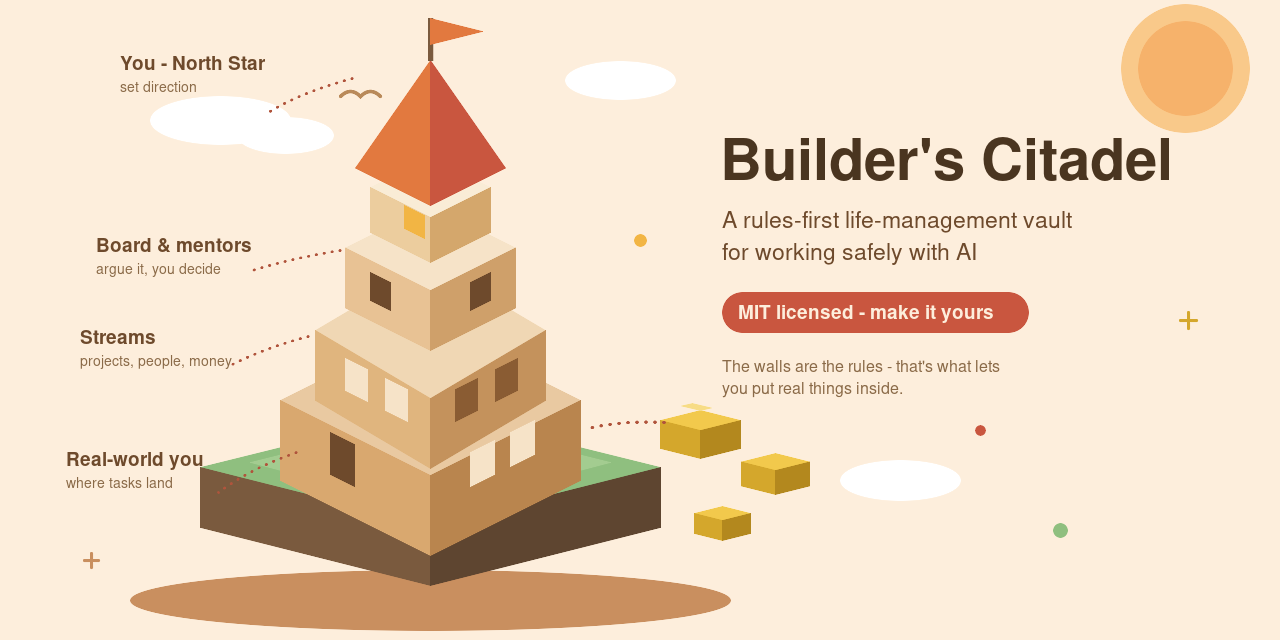
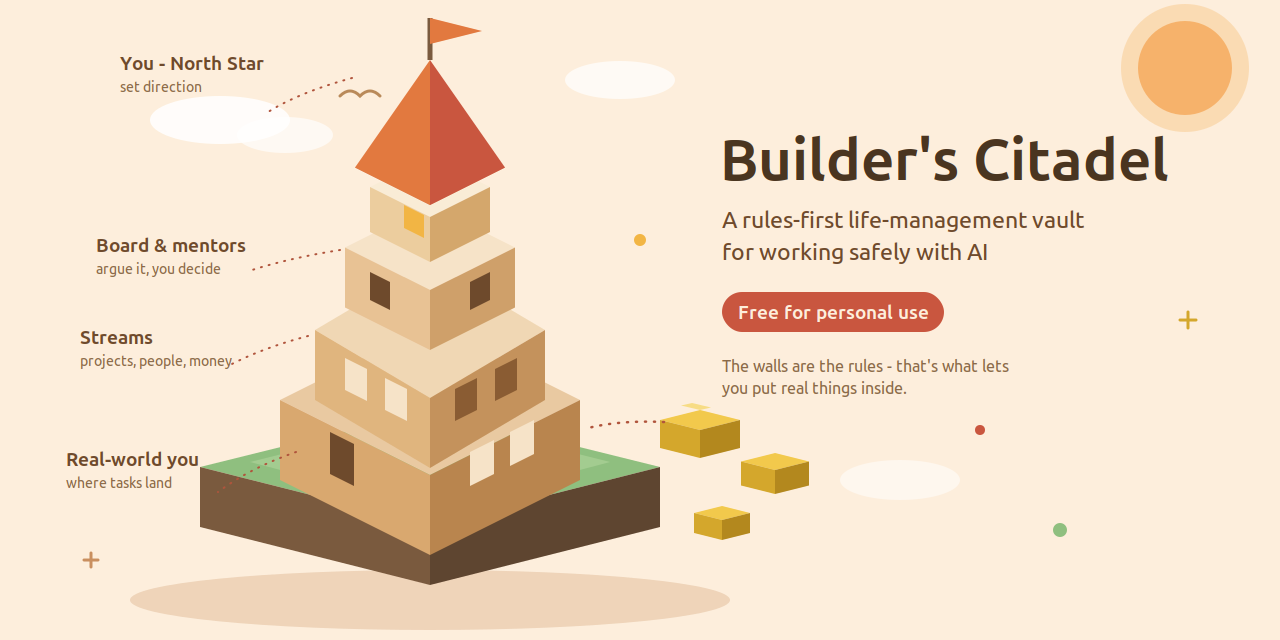
Relicense: MIT to PolyForm Noncommercial 1.0.0
Free for personal, hobby, charity, education and government use.
Commercial use now requires a separate licence.

- LICENSE: PolyForm Noncommercial 1.0.0 + Required Notice + commercial contact
- README: plain-English summary, commercial route, note on prior MIT versions
- GUIDE / SETUP: "open-source" reworded (PolyForm is source-available, not OSI)
- hero + social card: badge no longer says "MIT license"; SVG sources
  re-synced with the rendered PNGs, which had drifted apart

diff --git a/README.md b/README.md
@@ -4,7 +4,7 @@
 
 A life-management vault you hand to an AI. Rules first, folders second.
 
-Free and MIT licensed. It is the open drawer of [The Vault](https://humanlatency.online/vault.html) — the rest of the drawers are at [humanlatency.online](https://humanlatency.online).
+Free for personal and non-commercial use. It is the open drawer of [The Vault](https://humanlatency.online/vault.html) — the rest of the drawers are at [humanlatency.online](https://humanlatency.online).
 
 ![The whole system as one tower](docs/assets/hero.png)
 
@@ -113,7 +113,18 @@ Publishing your own version? Work through `PERSONALISE-CHECKLIST.md` first, so n
 
 ## Licence and credits
 
-Released under the **MIT Licence** — use it, adapt it, republish your own flavour. Just keep the copyright notice.
+Released under the **[PolyForm Noncommercial Licence 1.0.0](LICENSE)**.
+
+In plain English:
+
+- **Yes** — use it, adapt it, build your whole life on it, republish your own flavour, share it with friends. Free, forever, for anything that isn't a business.
+- **Yes** — charities, schools, universities, public research and government bodies count as non-commercial, whoever funds them.
+- **No** — you can't sell it, sell access to it, bundle it into a paid product or course, or use it inside a company's operations.
+- Keep the `Required Notice:` line and pass the licence along with any copy you share.
+
+**Want to use it commercially?** That's a conversation, not a no — email **cakeandink@gmail.com**.
+
+*Versions published before 16 August 2026 were released under the MIT Licence. That grant still stands for those copies; everything from here on is non-commercial.*
 
 Structure and rules distilled from a real working vault. Inspired in part by the public `CLAUDE.md` rules-file tradition in the AI-coding community.
 

diff --git a/GUIDE.md b/GUIDE.md
@@ -12,7 +12,7 @@
 
 To make that work I needed my **voice and DNA reconstructed** so drafts sound like me; a **vault of my history, education, skills and experience** I can pull facts from the instant I need to apply for a job or showcase something; **mentors** I can argue a decision with from different angles; and **"battering rams"** in the Executors layer that push a decided project through until it's done. The part I care about most: **decisions, research and execution are kept separate and auditable** — you can see every step, automate many, and keep honest trackers so nothing quietly slips. It's also helped me keep my **loved ones in the loop** and hold onto relationships I'd otherwise have let drift. And because it touches private things, it's careful about **cost and privacy** — hence the **three kinds of files** you'll meet in Part 6.
 
-I've open-sourced it so other builders can have the same hub. This guide is how you make it yours.
+I've published it, free for personal and non-commercial use, so other builders can have the same hub. This guide is how you make it yours.
 
 — Aye
 
@@ -251,4 +251,4 @@ You don't have to use every layer. The core — rulebook, streams, logistics —
 
 ---
 
-*Built by Aye and shared open-source. Make it yours — then, if it saves you a bad day, pass it on.*
+*Built by Aye and shared free for personal and non-commercial use. Make it yours — then, if it saves you a bad day, pass it on.*

diff --git a/SETUP.md b/SETUP.md
@@ -27,7 +27,7 @@ And because a system like this touches real, private things, I built it to be ca
 2. **Restricted files and folders** (names starting with `_`) — never opened without your explicit say-so in that conversation.
 3. **No-read files** (names ending in `-noread`) — never read at all, even by a search.
 
-I've shared this as open-source so other builders can have the same central hub. It's yours now — this setup makes it *yours specifically*. Take your time; nothing is sent, deleted, or changed without your say-so.
+I've shared this free, for personal and non-commercial use, so other builders can have the same central hub. It's yours now — this setup makes it *yours specifically*. Take your time; nothing is sent, deleted, or changed without your say-so.
 
 — Aye
 
